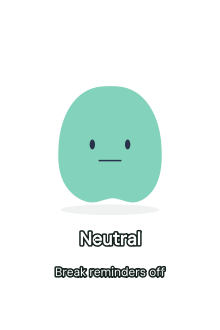
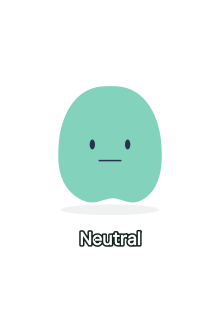
Refine Regen 0.6.4 layout and optional thought-cloud break reminders

Changed region(s): [[0.2455, 0.7879, 0.7636, 0.8485]]

diff --git a/topics/checkpoint/app/docs/case-study/index.html b/topics/checkpoint/app/docs/case-study/index.html
@@ -64,10 +64,10 @@
 <div class="decision-rows">
 <article><h3>Group by purpose</h3><div><h4>Gestalt law of proximity</h4><p>Check-in stays beside the feeling. Break actions and reminder timing share one area. Setback support has its own area. Display tools sit in the footer.</p></div></article>
 <article><h3>Show what matters now</h3><div><h4>Hick’s law and progressive disclosure</h4><p>One main check-in action leads to five emotions. Expression details appear when that source is enabled. Continue playing appears after a choice, rather than competing with the first action.</p></div></article>
-<article><h3>Let the player choose the timing</h3><div><h4>User control and visibility of system status</h4><p>Break reminders start off. Turning them on starts a fresh 30-second timer, adjustable from Regen. The countdown is visible, pauses during a break and stops at session end. A thought cloud offers a break without opening a dialog or taking focus.</p></div></article>
+<article><h3>Let the player choose the timing</h3><div><h4>User control and visibility of system status</h4><p>Break reminders start off. Turning them on starts a fresh 30-second timer, adjustable from Regen. Nori has no countdown between reminders. A timer appears only during an actual break; reminders stop at session end. A thought cloud offers a break without opening a dialog or taking focus.</p></div></article>
 <article><h3>Keep Nori readable over the game</h3><div><h4>Figure-ground contrast</h4><p>The emotion name and timer use light lettering with a dark outline. Both edges travel with the text across light, dark and mixed scenes, without a backing box or sampling the game screen.</p></div></article>
 </div></section>
-<section id="in-play" class="sheet in-play"><div class="section-head"><p class="stage">During the game</p><h2>A small reset<br>while you play</h2><p>Turn on break reminders when you want them. The first arrives after 30 seconds.<br>Change the interval in Regen. Click Nori to check in or start a break.</p></div><div class="in-play-screens"><figure class="desktop-mockup"><div class="display-bezel"><img src="assets/play-reminder.png" width="1440" height="900" alt="Native Regen showing the active-play reminder"></div><div class="device-base" aria-hidden="true"></div></figure><img class="overlay-screen" src="assets/reminder-overlay.png" width="220" height="330" alt="Nori thinking Let’s take a break, with unboxed emotion text and the next reminder countdown"></div></section>
+<section id="in-play" class="sheet in-play"><div class="section-head"><p class="stage">During the game</p><h2>A small reset<br>while you play</h2><p>Turn on break reminders when you want them. The first arrives after 30 seconds.<br>Change the interval in Regen. Click Nori to check in or start a break.</p></div><div class="in-play-screens"><figure class="desktop-mockup"><div class="display-bezel"><img src="assets/play-reminder.png" width="1440" height="900" alt="Native Regen showing the active-play reminder"></div><div class="device-base" aria-hidden="true"></div></figure><img class="overlay-screen" src="assets/reminder-overlay.png" width="220" height="330" alt="Nori thinking Let’s take a break, with only an unboxed emotion label beneath the character"></div></section>
 <section id="cma" class="sheet cma"><div class="section-head"><p class="stage">The framework</p><h2>Your check-in<br>shapes the support</h2><p>CMA describes pleasantness and activation.<br>The player chooses how to continue.</p></div><div class="cma-scenes">
 <article class="cma-scene"><canvas width="640" height="640" data-look="frustrated" aria-label="Nori representing frustration"></canvas><h3>Frustrated</h3><dl><div><dt>Pleasantness</dt><dd>−0.70</dd></div><div><dt>Activation</dt><dd>+0.80</dd></div></dl><p>A pause is available.</p></article>
 <article class="cma-scene"><canvas width="640" height="640" data-look="sad" aria-label="Nori representing low energy"></canvas><h3>Sad</h3><dl><div><dt>Pleasantness</dt><dd>−0.65</dd></div><div><dt>Activation</dt><dd>−0.55</dd></div></dl><p>Choose a smaller next goal.</p></article>

diff --git a/topics/checkpoint/app/tests/test_break_reminder.py b/topics/checkpoint/app/tests/test_break_reminder.py
@@ -43,16 +43,18 @@ def test_session_controls_apply_interval_and_opt_out_immediately(tmp_path):
         assert not w.break_reminders_enabled and not w.companion.reminder.deadline
         w.reminder_toggle.click()
         assert w.break_reminders_enabled and w.overlay_enabled
-        assert w.overlay.timer_value.text()=='0:30'
+        assert w.overlay.timer_value.text()=='' and w.overlay.timer_caption.text()==''
+        assert w.companion.reminder.remaining(__import__('time').monotonic())==30
         w.reminder_interval.setCurrentIndex(w.reminder_interval.findData(120))
-        assert w.reminder_seconds==120 and w.overlay.timer_value.text()=='2:00'
+        assert w.reminder_seconds==120 and w.overlay.timer_value.text()==''
+        assert w.companion.reminder.remaining(__import__('time').monotonic())==120
         w.overlay_action('reminders')
         assert not w.break_reminders_enabled and not w.overlay.message
         assert w.overlay.timer_value.text()==''
         w.set_break_reminders(True);w.start_break(30)
         assert w.companion.reminder.deadline is None
         w.overlay_action('continue')
-        assert w.overlay.timer_value.text()=='2:00'
+        assert w.overlay.timer_value.text()==''
     finally:
         w.close();w.deleteLater();QCoreApplication.sendPostedEvents(None,QEvent.Type.DeferredDelete)
 
@@ -67,7 +69,8 @@ def test_settings_custom_interval_and_transparent_label_rendering(tmp_path):
             dialog.break_reminders.setChecked(True);dialog.reminder_seconds.setValue(75);dialog.accept()
         QTimer.singleShot(10,save);w.show_preferences()
         assert w.reminder_seconds==75 and w.reminder_interval.currentData()==75
-        assert w.overlay.timer_value.text()=='1:15'
+        assert w.overlay.timer_value.text()=='' and w.overlay.timer_caption.text()==''
+        assert w.companion.reminder.remaining(__import__('time').monotonic())==75
         w.overlay.show();app.processEvents();image=w.overlay.grab().toImage()
         assert image.pixelColor(25,230).alpha()==0  # No label backing box.
         pixels=[image.pixelColor(x,y) for x in range(65,155) for y in range(225,253)]

diff --git a/topics/checkpoint/app/checkpoint/overlay.py b/topics/checkpoint/app/checkpoint/overlay.py
@@ -37,7 +37,7 @@ class NoriOverlay(QWidget):
         self.name_label=self.make_label(18,True,QRect(24,225,172,28))
         self.timer_caption=self.make_label(12,False,QRect(24,263,172,18))
         self.timer_value=self.make_label(30,True,QRect(24,281,172,35))
-        self.update_status('neutral','Take a break','0:30')
+        self.update_status('neutral','','')
         self.setAccessibleName('Nori. Click for check-in and break controls. Drag to move.');self.setCursor(Qt.CursorShape.PointingHandCursor);self.place('bottom-right')
         self.expiry=QTimer(self);self.expiry.timeout.connect(self.clear_expired);self.expiry.start(250)
         self.modifiers=QTimer(self);self.modifiers.setInterval(50);self.modifiers.timeout.connect(self.check_modifiers)
@@ -51,12 +51,14 @@ class NoriOverlay(QWidget):
     def update_status(self,emotion,caption,value,*,active=True,paused=False,reminders=False,camera=False):
         self.expression_label=PRIMARY_LABELS[primary_key(emotion)];self.name_label.setText(self.expression_label)
         self.timer_caption.setText(caption);self.timer_value.setText(value)
+        self.timer_caption.setVisible(bool(caption));self.timer_value.setVisible(bool(value))
         self.session_active=active;self.break_active=paused;self.reminders_enabled=reminders;self.has_camera=camera
         self.update_mask();self.update()
 
     def update_mask(self):
         path=QPainterPath();path.addRoundedRect(32,67,156,158,55,55)
-        region=QRegion(path.toFillPolygon().toPolygon())|QRegion(QRect(23,223,174,32))|QRegion(QRect(23,258,174,64))
+        region=QRegion(path.toFillPolygon().toPolygon())|QRegion(QRect(23,223,174,32))
+        if self.timer_caption.text() or self.timer_value.text():region=region|QRegion(QRect(23,258,174,64))
         if self.message or self.editing:region=region|QRegion(thought_cloud().toFillPolygon().toPolygon())
         if getattr(self,'_mask_region',None)!=region:
             self._mask_region=region;self.setMask(region)

diff --git a/topics/checkpoint/app/checkpoint/app.py b/topics/checkpoint/app/checkpoint/app.py
@@ -638,14 +638,12 @@ class MainWindow(QMainWindow):
         seconds=self.companion.reminder.remaining(now)
         if remaining is not None:
             caption='Break complete' if remaining==0 else 'Break time';value=f'{remaining//60}:{remaining%60:02d}'
-        elif self.break_reminders_enabled and s.active and seconds is not None:
-            caption='Next break reminder';value=f'{seconds//60}:{seconds%60:02d}'
-        else:caption='Break reminders off';value=''
+        else:caption='';value=''
         self.overlay.update_status(artwork,caption,value,active=s.active,paused=remaining is not None,reminders=self.break_reminders_enabled,camera=s.camera_active)
         self.overlay.support_enabled=self.nudges_enabled
         self.reminder_toggle.blockSignals(True);self.reminder_toggle.setChecked(self.break_reminders_enabled);self.reminder_toggle.blockSignals(False)
         self.reminder_toggle.setEnabled(s.active and remaining is None);self.reminder_interval.setEnabled(s.active and remaining is None)
-        self.reminder_status.setText('Paused during your break.' if remaining is not None else f'Next reminder in {seconds//60}:{seconds%60:02d}' if self.break_reminders_enabled and s.active and seconds is not None else 'Off. Turn on when you want a reminder.' if s.active else 'Session ended. Reminders stopped.')
+        self.reminder_status.setText('Paused during your break.' if remaining is not None else f'On. Every {self.reminder_seconds} seconds.' if self.break_reminders_enabled and s.active else 'Off. Turn on when you want a reminder.' if s.active else 'Session ended. Reminders stopped.')
         latest_choice=s.responses[-1] if s.responses else None
         self.continue_control.setVisible(s.active and remaining is None and bool(latest_choice))
         self.support_toggle.blockSignals(True);self.support_toggle.setChecked(self.nudges_enabled);self.support_toggle.blockSignals(False)

diff --git a/topics/checkpoint/HANDOFF.md b/topics/checkpoint/HANDOFF.md
@@ -135,3 +135,5 @@ Nori mood/countdown labels have transparent backing with white glyphs and a dark
 Break reminders are a separate explicit opt-in, initially off. The first prompt arrives 30 seconds after enabling, adjustable with Session presets or Settings (30–3600 seconds). Camera/game observation is unnecessary. Taking a break clears the pending reminder; continuing starts a full interval; end stops prompts. Game observation no longer opts into setback support or break reminders. Five primary states are unchanged.
 
 Local verification: 139 tests passed, five fixture/Windows-dependent checks skipped. Actual Qt session/widget/recovery/play-support review scripts passed, including desktop 1440x900 and compact 1024x768, clicked check-in/break controls, phone-payload propagation, interval changes and transparent glyph rendering. Source case study adds concrete UX decisions and refreshed native screenshots. Windows 0.6.4 release and Vercel preview verification are pending publication at this checkpoint. No physical camera/game testing or user outcome claim.
+
+User correction before 0.6.4 publication: remove the Next break reminder label and its countdown entirely. Nori shows only the emotion between prompts; a timer appears only during an actual break. Regen retains the interval setting and a static on/off status, with no ticking next-reminder readout. Canceled the first Windows run before publication and rebuilt with this correction.

diff --git a/topics/checkpoint/DECISIONS.md b/topics/checkpoint/DECISIONS.md
@@ -47,3 +47,5 @@ Nori mood/countdown labels have transparent backing with white glyphs and a dark
 Break reminders are a separate explicit opt-in, initially off. The first prompt arrives 30 seconds after enabling, adjustable with Session presets or Settings (30–3600 seconds). Camera/game observation is unnecessary. Taking a break clears the pending reminder; continuing starts a full interval; end stops prompts. Game observation no longer opts into setback support or break reminders. Five primary states are unchanged.
 
 Local verification: 139 tests passed, five fixture/Windows-dependent checks skipped. Actual Qt session/widget/recovery/play-support review scripts passed, including desktop 1440x900 and compact 1024x768, clicked check-in/break controls, phone-payload propagation, interval changes and transparent glyph rendering. Source case study adds concrete UX decisions and refreshed native screenshots. Windows 0.6.4 release and Vercel preview verification are pending publication at this checkpoint. No physical camera/game testing or user outcome claim.
+
+User correction before 0.6.4 publication: remove the Next break reminder label and its countdown entirely. Nori shows only the emotion between prompts; a timer appears only during an actual break. Regen retains the interval setting and a static on/off status, with no ticking next-reminder readout. Canceled the first Windows run before publication and rebuilt with this correction.

diff --git a/topics/checkpoint/app/README.md b/topics/checkpoint/app/README.md
@@ -10,7 +10,7 @@ A Windows gaming companion with Nori, short play reminders and CMA check-ins.
 
 Break reminders start off. Turn them on for a thought-cloud prompt after 30 seconds, adjustable in Session or Settings. They pause during breaks and stop at session end, independently of camera and game tracking. Setback support is a separate option.
 
-Use Break reminders to turn the timer off. Ctrl+Alt+F8 marks a setback; Ctrl+Alt+F9 mutes setback support. Click Nori to check in, start a break or mute reminders. Drag to move. The emotion name has no backing box. The countdown appears while reminders are enabled or a break is running. Camera estimates remain separate from your CMA check-in.
+Use Break reminders to turn the timer off. Ctrl+Alt+F8 marks a setback; Ctrl+Alt+F9 mutes setback support. Click Nori to check in, start a break or mute reminders. Drag to move. The emotion name has no backing box. A countdown appears only while a break is running. Nori shows no next-reminder label or countdown. Camera estimates remain separate from your CMA check-in.
 
 Phone opens a paired display on the same Wi-Fi. The laptop performs the analysis; the phone shows derived state and the recap.
 

diff --git a/topics/checkpoint/app/docs/case-study/FEASIBILITY.md b/topics/checkpoint/app/docs/case-study/FEASIBILITY.md
@@ -17,7 +17,7 @@ Break reminders are off initially and use an independent monotonic timer. Enabli
 
 Start play support enables game observation and the overlay. Setback support is separately enabled. A possible fall followed by a settled view can prompt a next move, encouragement or optional pause. Automatic setback suggestions retain their two-minute cooldown.
 
-Mood and countdown text have light fills and dark outlines, with no label surface. Thought-cloud prompts do not activate the game window or read its pixels. Readability over visually dense motion still needs physical-device evaluation.
+The mood label and actual break timer have light fills and dark outlines, with no label surface. Nori shows no next-reminder label or countdown. Thought-cloud prompts do not activate the game window or read its pixels. Readability over visually dense motion still needs physical-device evaluation.
 
 I fell requests a response directly. Windows shortcuts provide manual setback marking and mute while support is running. A one-off request preserves the automatic-tip mute preference.
 

diff --git a/topics/checkpoint/app/docs/RELEASE-NOTES.md b/topics/checkpoint/app/docs/RELEASE-NOTES.md
@@ -3,7 +3,7 @@
 - Open session layout groups check-in, breaks, setback support and display tools by purpose.
 - Nori’s emotion and countdown use light lettering with dark outlines, with no backing boxes.
 - An optional thought-cloud break prompt starts 30 seconds after enabling. Adjust the interval in Session or Settings. No camera or game tracking is needed.
-- Breaks pause the reminder and explicit continuation starts a full interval. Session end stops prompts.
+- Nori shows no next-reminder label or countdown. A timer appears only during an actual break. Breaks pause reminders; continuing starts a full interval. Session end stops prompts.
 - Setback support remains a separate opt-in; starting game observation does not enable either reminder type.
 - Updated static case study, real UI screenshots and visual PDF explain the design decisions and relevant UX principles.
 - Five shared states remain Neutral, Happy, Frustrated, Sad and Confused. Model weights and inference are unchanged.

diff --git a/topics/checkpoint/app/docs/case-study/CASE-STUDY.md b/topics/checkpoint/app/docs/case-study/CASE-STUDY.md
@@ -57,7 +57,7 @@ Neutral, Happy, Frustrated, Sad and Confused form the shared vocabulary across t
 
 ## Widget interaction
 
-The emotion name uses light lettering with a dark outline and no backing box. The break countdown appears during a break or while reminders are enabled. Click Nori to check in, take a timed break, mark a fall or turn break reminders on or off. Drag to move the widget. Continue playing ends a completed break.
+The emotion name uses light lettering with a dark outline and no backing box. A countdown appears only during an actual break. Nori shows no next-reminder label or countdown. Click Nori to check in, take a timed break, mark a fall or turn break reminders on or off. Drag to move the widget. Continue playing ends a completed break.
 
 ## UI decisions and UX principles
 
